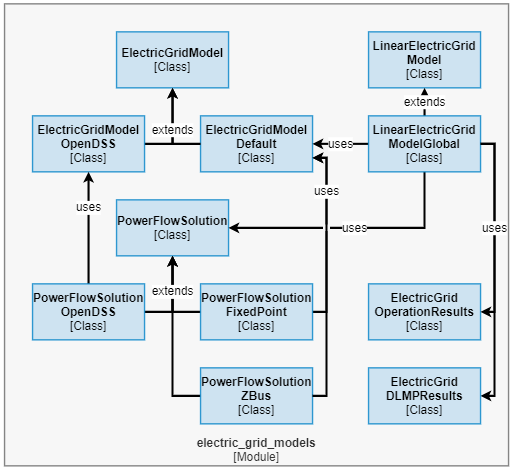
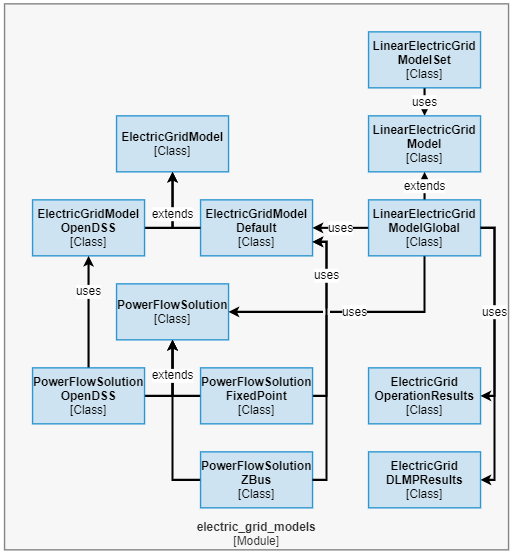
docs: Revise architecture docs

diff --git a/docs/architecture.md b/docs/architecture.md
@@ -55,7 +55,7 @@ Internally, the `api` module implements API functions which rely on the `problem
 
 The [component view of MESMO](fig:architecture_overview_detailed) provides a complete overview of all components, i.e. modules and data stores, of MESMO. The interaction between stakeholders and the software system follows the structure that has been outlined in [the context view](fig:architecture_overview) and is not repeated here. Compared to [the context view](fig:architecture_overview), the `models` modules are represented individually in [the component view](fig:architecture_overview_detailed) as `der_models` module, `electric_grid_models` module and `thermal_grid_models` module. Further, the `problems` module, `plots` module and `models` modules all use the `utils` module, which implements auxiliary functionality, such as base classes and logging functions. Researchers may use the `OptimizationProblem` class and results-path creation function from the `utils` module for creating custom workflows and optimization problem definitions.
 
-In addition to the above described functionality, `data_interface` module creates an internal database, i.e. `database.sqlite`, which serves as a temporary data store for scenario and model data. The internal database enables the utilization of SQL statements for efficiently transforming the input data into model data objects, which are then used by the `models` modules. The `config` module facilitates the declaration of configuration parameters, e.g. the level of logging outputs or the choice of optimization solvers. It is used by the `data_interface` module, `utils` module, `problems` module, `plots` module and `models` modules. The `config` module reads configuration parameter definitions from the data stores `config.yml` and `config_default.yml` in YAML format (The YAML Project 2020).
+In addition to the above described functionality, `data_interface` module creates an internal database, i.e. `database.sqlite`, which serves as a temporary data store for scenario and model data. The internal database enables the utilization of SQL statements for efficiently transforming the input data into model data objects, which are then used by the `models` modules. The `config` module facilitates the declaration of configuration parameters, e.g. the level of logging outputs or the choice of optimization solvers. It is used by the `data_interface` module, `utils` module, `problems` module, `plots` module and `models` modules. The `config` module reads configuration parameter definitions from the data stores `config.yml` and `config_default.yml` in [YAML format](https://yaml.org/).
 
 MESMO is intended as a software system that is deployed to individual workstations akin to a traditional desktop application, where all data and dependencies are kept local. Nevertheless, the software architecture is kept flexible enough to support alternative deployment structures in future, e.g. provisioning of a remote database system for the internal data store or operating MESMO as a server-side system that serves a web-based dashboard.
 
@@ -93,16 +93,16 @@ The `utils` module implements the following functionality:
 - Results object base class in `ResultsBase`.
 - Optimization problem class in `OptimizationProblem`.
 - Parallelization utility function in `starmap()`.
-- Memoization, i.e. caching, function decorator in `memoize()`.
 - Indexing utility functions in `get_index()`, `get_element_phases_array()` and `get_element_phases_string()`.
 - Utility functions to capture and log elapsed time in `log_time()`.
 - Helper functions to create and return a current time stamp in `get_timestamp` and a path for a new results folder in `get_results_path()`.
+- A utility function for writing `plotly` figures to files in `write_figure_plotly()`.
+- Other utility functions, which have yet to be included here (see [API reference](api_reference.md) for more).
 
-- A write utility function for `plotly` figures in `write_figure_plotly()`.
 
-The `utils` module essentially provides support functionality for the other modules of MESMO. To begin, the `ObjectBase`, `ResultsBase` and `OptimizationProblem` define base classes for MESMO, such that common functionality is not multiply defined in the model modules.
+The `utils` module essentially provides support functionality for the other modules of MESMO. To begin, the `ObjectBase`, `ResultsBase` and `OptimizationProblem` define base classes for MESMO, such that common functionality is not multiply defined in the model modules. Note that the purpose and functionality of the {class}`mesmo.utils.OptimizationProblem` object is extensively documented in the [API reference](api_reference.md).
 
-The `starmap()` and `memoize()` functions enable performance improvements to address the solution time ASR. Parallelization is enabled through the `starmap()` function, which can be utilized to process independent function executions in parallel, e.g. the initialization of multiple DER models. Therefore, `starmap()` replaces for-loop instances. Caching functionality is enabled with the `memoize()` decorator, which can be applied to arbitrary functions for speedup, i.e. the results of function calls are stored for subsequent calls. The `memoize()` is added to function definitions to enable the caching of the respective functions. Note that both `starmap()` and `memoize()` can be disabled though configuration parameters, i.e. the performance behavior of MESMO can be influenced without requiring source code changes.
+The `starmap()` function enables the parallelization of function calls, such that independent function can be executed in parallel, e.g. the initialization of multiple models. Therefore, `starmap()` replaces for-loop instances, which is modeled on [`itertools.starmap()`](https://docs.python.org/library/itertools.html#itertools.starmap) from the Python standard library. Note that parallel processing via `starmap()` must be explicitly enabled through the [multiprocessing configuration parameters](configuration_reference.md#multiprocessing-configuration). The `starmap()` function enables performance improvements to address the solution time software quality attribute.
 
 The `get_index()`, `get_element_phases_array()` and `get_element_phases_string()` functions define low-level functionality to support convenient indexing into vectors and matrices of the mathematical model formulations. This is heavily utilized in the model modules.
 
@@ -121,7 +121,7 @@ The `data_interface` module implements the following functionality:
 - Function to create or clear the internal database and reload all data from the input files in CSV format in `recreate_database()`.
 - Data container objects for scenario data in `ScenarioData`, price data in `PriceData`, DER data in `DERData`, electric grid data in `ElectricGridData` and thermal grid data in `ThermalGridData`.
 
-The primary purpose of `data_interface` module is to address the software quality attributes regarding interoperability and modifiability. To this end, the data container objects of this module serve as an abstraction layer between external and internal data structures. More specifically, internal model objects, e.g. `ElectricGridModel`, rely exclusively on data container objects, e.g. `ElectricGridData`, for their model parameter input but do not read any external data definitions directly. This is leans on the “clean architecture” principle from (Martin 2018, 195, Chapter 22), which suggests that software layers that implement core functionality, i.e. models modules, should not need to know anything about the external interfaces of the software system, i.e. the input data definitions. This approach supports interoperability and modifability because changes to the external data formats of MESMO do not induce any changes in the model implementations. Note however, that changes on the model implementations may indeed require changes to the data interface, as the required model parameters may change.
+The primary purpose of `data_interface` module is to address the software quality attributes regarding interoperability and modifiability. To this end, the data container objects of this module serve as an abstraction layer between external and internal data structures. More specifically, internal model objects, e.g. `ElectricGridModel`, rely exclusively on data container objects, e.g. `ElectricGridData`, for their model parameter input but do not read any external data definitions directly. This is leans on the “clean architecture” principle from (Martin 2018, p. 195, Chapter 22), which suggests that software layers that implement core functionality, i.e. models modules, should not need to know anything about the external interfaces of the software system, i.e. the input data definitions. This approach supports interoperability and modifability because changes to the external data formats of MESMO do not induce any changes in the model implementations. Note however, that changes on the model implementations may indeed require changes to the data interface, as the required model parameters may change.
 
 The `connect_database()` function establishes the connection to the internal database and returns a connection handle. MESMO utilizes an SQLITE database as internal database, which is stored locally as `database.sqlite`. On the other hand, if the local database does not yet exist, it is created through a call to `recreate_database()`. This function creates an empty database and loads the CSV input files into the database. If the local database exists, a call to `recreate_database()` clears the existing database before parsing the CSV input files. The MESMO CSV input format is aligned with the internal database schema, such that each CSV file corresponds to a table in the SQL database. Therefore, the CSV file name is interpreted as table name and the values in the first row are interpreted as column names. Note that MESMO can in principle be adapted to use other SQL database software than SQLITE, through modification of `connect_database()` and `recreate_database()`.
 
@@ -138,14 +138,14 @@ The `electric_grid_models` module implements the following functionality:
 
 - Fundamental electric grid models in `ElectricGridModel`, `ElectricGridModelDefault` and `ElectricGridModelOpenDSS`.
 - Power flow solution algorithms in `PowerFlowSolution`, `PowerFlowSolutionFixedPoint`, `PowerFlowSolutionZBus` and `PowerFlowSolutionOpenDSS`.
-- Linear electric grid models in `LinearElectricGridModel`, `LinearElectricGridModelGlobal` and `LinearElectricGridModelLocal`.
+- Linear electric grid models in `LinearElectricGridModel`, `LinearElectricGridModelSet`, `LinearElectricGridModelGlobal` and `LinearElectricGridModelLocal`.
 - Electric grid operation problem results in `ElectricGridOperationResults` and `ElectricGridDLMPResults`.
 
-The `ElectricGridModel` class implements a base class for electric models, which consists of index sets for nodes, branches and DERs and reference vectors for the nodal voltage, branch power flow and DER power injection / load. This base class is extended in `ElectricGridModelDefault` with the mathematical definitions of the fundamental electric grid model. To this end, the model implements nodal and branch admittance matrices along with branch and DER mapping matrices. The `ElectricGridModelOpenDSS` similarly extends the `ElectricGridModel` class, where the focus lies on implementing a OpenDSS model based for the provided grid definition data. This essentially acts as an interface to OpenDSS (Dugan and McDermott 2011), which is provided in MESMO to allow for benchmarking of obtained power flow solutions. The implementation relies on `OpenDSSDirect.py` (Dheepak Krishnamurthy, Paulo Meira, and Max Zangs \[2017\] 2021), which provides a Python interface and command-line executables of OpenDSS.
+The `ElectricGridModel` class implements a base class for electric models, which consists of index sets for nodes, branches and DERs and reference vectors for the nodal voltage, branch power flow and DER power injection / load. This base class is extended in `ElectricGridModelDefault` with the mathematical definitions of the fundamental electric grid model. To this end, the model implements nodal and branch admittance matrices along with branch and DER mapping matrices. The `ElectricGridModelOpenDSS` similarly extends the `ElectricGridModel` class, where the focus lies on implementing a OpenDSS model based for the provided grid definition data. This essentially acts as an interface to OpenDSS, which is provided in MESMO to allow for benchmarking of obtained power flow solutions. The implementation relies on [`OpenDSSDirect.py`](https://github.com/dss-extensions/OpenDSSDirect.py), which provides a Python interface and command-line executables of OpenDSS.
 
 The `PowerFlowSolution` class implements a abstract base class for power flow solutions, thereby declaring the expected output variables of the power flow solution. This base class is extended in `PowerFlowSolutionFixedPoint` for the fixed-point solution algorithm and in `PowerFlowSolutionZBus` for the Z-bus solution algorithm, which both use and `ElectricGridModelDefault` object as an input for the power flow solution. The `PowerFlowSolutionOpenDSS` class implements a power flow solution through OpenDSS, where it relies on an OpenDSS model being defined in `ElectricGridModelOpenDSS`.
 
-The `LinearElectricGridModel` class implements a base class for linear electric model, where the expected sensitivity matrices of the linear grid model are declared. This class also implements the methods `define_optimization_variables`, `define_optimization_constraints` and `define_optimization_objective` to define variables, constraints and objective for an optimal operation problem based on the linear grid model. Further, the base class implements `get_optimization_results` and `get_optimization_dlmps` to obtain the DLMPs and other results after the optimization problem was solved. The linear model base class is extended in `LinearElectricGridModelGlobal` and `LinearElectricGridModelLocal` with the mathematical definitions for the sensitivity matrices based on the global and local approximation methods.
+The `LinearElectricGridModel` class implements a base class for linear electric model, where the expected sensitivity matrices of the linear grid model are declared. Based on a set of `LinearElectricGridModel` objects, i.e. one model per time step, the `LinearElectricGridModelSet` class implements the optimization-related methods `define_optimization_variables`, `define_optimization_constraints` and `define_optimization_objective` to define variables, constraints and objective for an optimal operation problem based on the linear grid model. Further, this class implements `get_optimization_results` and `get_optimization_dlmps` to obtain the DLMPs and other results after the optimization problem was solved. The `LinearElectricGridModel` base class is extended in `LinearElectricGridModelGlobal` and `LinearElectricGridModelLocal` with the mathematical definitions for the sensitivity matrices based on the global and local approximation methods.
 
 The results container classes `ElectricGridOperationResults` and `ElectricGridDLMPResults` encapsulate the output from `get_optimization_results` and `get_optimization_dlmps`. To this end, the container classes declare a standardized interface for results data. This addresses the software quality attribute for modifiability, since it ensures a decoupling of the mathematical model implementation from the post-processing functionality in the `plots` and `dashboard` modules.
 
@@ -160,12 +160,12 @@ The `thermal_grid_models` module implements the following functionality:
 
 - Fundamental thermal grid model in `ThermalGridModel`.
 - Thermal power flow solution algorithm in `ThermalPowerFlowSolution`.
-- Linear thermal grid models in `LinearThermalGridModel`, `LinearThermalGridModelGlobal` and `LinearThermalGridModelLocal`.
+- Linear thermal grid models in `LinearThermalGridModel` and `LinearThermalGridModelSet`.
 - Thermal grid operation problem results in `ThermalGridOperationResults` and `ThermalGridDLMPResults`.
 
 The `ThermalGridModel` class implements the fundamental thermal grid model consisting of index sets for nodes, branches and DERs in the thermal grid as well as branch parameter and mapping matrices. Based on this, the `ThermalPowerFlowSolution` implements the thermal power flow solution algorithm for the thermal grid. Note that the distinction into base classes and detail classes is omitted due to lack of differentiation the thermal grid models but a structure similar to the `electric_grid_models` module may be introduced at later point.
 
-The `LinearThermalGridModel` class implements base for linear thermal grid models, where the expected sensitivity matrices of the linear grid model are declared along with the methods `define_optimization_variables`, `define_optimization_constraints` and `define_optimization_objective` to define variables, constraints and objective for an optimal operation problem based on the linear grid model. The linear model base class is extended in `LinearThermalGridModelGlobal` and `LinearThermalGridModelLocal` with the mathematical definitions for the sensitivity matrices based on the global and local approximation methods.
+The `LinearThermalGridModel` class implements base for linear thermal grid models, where the expected sensitivity matrices of the linear grid model are declared and defined. Based on a set of `LinearThermalGridModel` objects, i.e. one model per time step, the `LinearThermalGridModelSet` class defines the optimization-related methods `define_optimization_variables`, `define_optimization_constraints` and `define_optimization_objective` to define variables, constraints and objective for an optimal operation problem based on the linear grid model. Further, this class implements `get_optimization_results` and `get_optimization_dlmps` to obtain the DLMPs and other results after the optimization problem was solved.
 
 The results container classes `ThermalGridOperationResults` and `ThermalGridDLMPResults` encapsulate the output from `get_optimization_results` and `get_optimization_dlmps`. To this end, the container classes declare a standardized interface for results data. Similar to the results classes in the `electric_grid_models` module, this addresses the software quality attribute for modifiability.
 
@@ -217,7 +217,7 @@ The results container class `Results` declares the expected results variables fo
 
 **Workflow diagram of the nominal operation problems.**
 
-The nominal operation problem is a simulation problem of the electric grid, thermal grid and DERs. The workflow diagram for an exemplary nominal operation problem is depicted [above](fig:workflow_nominal_operation). In this example, the thermal grid is not considered for the sake of brevity. For the purpose of this documentation, the researcher is assumed to control the workflow within a read-eval-print loop (REPL), i.e. successively executing statements in the command line.
+The nominal operation problem is a simulation problem of the electric grid, thermal grid and DERs. The [workflow diagram](fig:workflow_nominal_operation) for an exemplary nominal operation problem is depicted above. In this example, the thermal grid is not considered for the sake of brevity. For the purpose of this documentation, the researcher is assumed to control the workflow within a read-eval-print loop (REPL), i.e. successively executing statements in the command line.
 
 The workflow begins with the researcher creating an object of the `NominalOperationProblem` class. In the initialization routine of this object, the child objects `ElectricGridModel` and `DERModelSet` are created. In turn, the initialization routine of `ElectricGridModel` loads an `ElectricGridData` object, whereas `DERModelSet` loads an `DERData` object. The data objects respectively establish a connection to `database.sqlite` through `connect_database()` and then obtain the relevant data items. In `ElectricGridModel`, the index sets and model matrices are then defined based on the obtained data. In `DERModelSet` all DER models for the current scenario are created through `make_der_model()`, thereby loading multiple `DERModel` objects. Once the initialization routine is completed, control is returned to the researcher.
 
@@ -234,15 +234,15 @@ In the last step, the researcher may save the results to the file system through
 
 **Workflow diagram of the optimal operation problems.**
 
-The optimal operation problem is a numerical optimization problem of the district-scale electric grid, thermal grid and DERs. The workflow diagram for an exemplary nominal operation problem is depicted [above](fig:workflow_optimal_operation). Similar to the nominal operation problem workflow above, the thermal grid is not considered for the sake of brevity and the researcher is assumed to control the workflow within a read-eval-print loop (REPL), i.e. successively executing statements in the command line.
+The optimal operation problem is a numerical optimization problem of the district-scale electric grid, thermal grid and DERs. The [workflow diagram](fig:workflow_optimal_operation) for an exemplary nominal operation problem is depicted above. Similar to the nominal operation problem workflow above, the thermal grid is not considered for the sake of brevity and the researcher is assumed to control the workflow within a read-eval-print loop (REPL), i.e. successively executing statements in the command line.
 
-The researcher begins the workflow by creating an object of the `OptimalOperationProblem` class. In its initialization routine, the `OptimalOperationProblem` creates child objects of the `ElectricGridModel`, `GlobalLinearElectricGridModel` and `DERModelSet` classes. To begin, the `ElectricGridModel` loads an `ElectricGridData` object, which establishes a connection to `database.sqlite` through `connect_database()` and obtains the relevant data items. In `ElectricGridModel`, the index sets and model matrices are then defined based on the obtained data. Based on this, the `GlobalLinearElectricGridModel` is instantiated based on the index sets and model matrices of the `ElectricGridModel` object. Furthermore, a `PowerFlowSolution` object is loaded for the nominal loading conditions of the electric grid, which is required as a reference point for the global approximation method. Note that `GlobalLinearElectricGridModel` is utilized here instead of `LinearElectricGridModel`, which is the abstract parent class that only implements the model interface / structure but not the actual mathematical model formulation. Lastly, in `DERModelSet` all DER models for the current scenario are created through `make_der_model()`, thereby loading multiple `DERModel` objects.
+The researcher begins the workflow by creating an object of the `OptimalOperationProblem` class. In its initialization routine, the `OptimalOperationProblem` creates child objects of the `ElectricGridModel`, `LinearElectricGridModelSet` and `DERModelSet` classes. To begin, the `ElectricGridModel` loads an `ElectricGridData` object, which establishes a connection to `database.sqlite` through `connect_database()` and obtains the relevant data items. In `ElectricGridModel`, the index sets and model matrices are then defined based on the obtained data. Based on this, the `LinearElectricGridModelSet` is instantiated, which internally loads a set of `LinearElectricGridModel` objects based on the index sets and model matrices of the `ElectricGridModel` object. Furthermore, a `PowerFlowSolution` object is loaded for the nominal loading conditions of the electric grid, which is required as a reference point for the global approximation method. Note that `LinearElectricGridModelSet` creates one `LinearElectricGridModel` for each time step of the scenario, which is intended to enable better solution quality by using individual approximation points, i.e. `PowerFlowSolution` objects, for each time step. This currently not utilized in `OptimalOperationProblem`, but the interface has been designed to be future-proof, e.g. for integration of a trust-region algorithm to iteratively update the approximation points. Lastly, in `DERModelSet` all DER models for the current scenario are created through `make_der_model()`, thereby loading multiple `DERModel` objects.
 
-Furthermore, the initialization routine of the `OptimalOperationProblem` creates an object of the `OptimizationProblem` class. This object serves as a container for the mathematical definitions of the numerical optimization problem, i.e. its variables, constraints and objective definition. To this end, the `OptimizationProblem` class provides the necessary abstractions to enable a solver-agnostic problem definition. Continuing, the initialization routine of the `OptimalOperationProblem` defines the variables, constraints and objectives of the optimal operation problems. In this regard, the architecture of MESMO is structured such that variables, constraints and objective are implemented through methods within the respective model classes. This addresses the quality attributes for modifiability and modularity of the software. It ensures that 1) model interface changes are kept coherent with the optimization problem definitions and 2) variables, constraints and objective definitions can be obtained for each model individually. Therefore, the `OptimalOperationProblem` iterates through the methods `define_optimization_variables()`, `define_optimization_constraints()` and `define_optimization_objective()` of `LinearElectricGridModel` and `DERModelSet`, where the `OptimizationProblem` object is passed to each method in order to attach the variables, constraints and objective definitions. Once the initialization routine is completed, control is returned to the researcher.
+Furthermore, the initialization routine of the `OptimalOperationProblem` creates an object of the `OptimizationProblem` class. This object serves as a container for the mathematical definitions of the numerical optimization problem, i.e. its variables, constraints and objective definition. To this end, the `OptimizationProblem` class provides the necessary abstractions to enable a solver-agnostic problem definition (see {class}`mesmo.utils.OptimizationProblem`). Continuing, the initialization routine of the `OptimalOperationProblem` defines the variables, constraints and objectives of the optimal operation problems. In this regard, the architecture of MESMO is structured such that variables, constraints and objective are implemented through methods within the `LinearElectricGridModelSet` and `DERModelSet` classes. This addresses the quality attributes for modifiability and modularity of the software. It ensures that 1) model interface changes are kept coherent with the optimization problem definitions and 2) variables, constraints and objective definitions can be obtained for each model individually. Therefore, the `OptimalOperationProblem` iterates through the methods `define_optimization_variables()`, `define_optimization_constraints()` and `define_optimization_objective()` of `LinearElectricGridModelSet` and `DERModelSet`, where the `OptimizationProblem` object is passed to each method in order to attach the variables, constraints and objective definitions. Once the initialization routine is completed, control is returned to the researcher.
 
 The researcher then calls the `solve()` method of the `OptimalOperationProblem` object. This method calls the `solve()` method of the `OptimizationProblem` object, which in turn passes the optimization problem definition to the solver interface. It invokes the external optimization solver to obtain the solution.
 
-Next, the researcher calls the `get_results()` method of the `OptimalOperationProblem` object. This method obtains the results for all model variables by invoking the `get_optimization_results()` methods of the `LinearElectricGridModel` and `DERModelSet`. The results are then transformed into the results variable structures which are expected in the `Results` object, which is then created by passing the relevant variables into the container. Eventually, the `get_results()` method returns the `Results` object to the researcher.
+Next, the researcher calls the `get_results()` method of the `OptimalOperationProblem` object. This method obtains the results for all model variables by invoking the `get_optimization_results()` methods of the `LinearElectricGridModelSet` and `DERModelSet`. The results are then transformed into the results variable structures which are expected in the `Results` object, which is then created by passing the relevant variables into the container. Eventually, the `get_results()` method returns the `Results` object to the researcher.
 
 ## Allocation structures
 
@@ -253,19 +253,7 @@ Next, the researcher calls the `get_results()` method of the `OptimalOperationPr
 
 **Container view of MESMO, highlighting the external software dependencies.**
 
-In principle, MESMO’s software architecture presented in [](#module-structures) and [](#workflow-structures) can be implemented in any software environment or programming language. Nevertheless, the choice of dependencies is influenced by some the functional requirements and quality attributes from [](#functional-requirements) and [](#quality-attributes). To this end, the [container view](fig:architecture_container_view) highlights the main dependencies of the current implementation of MESMO.
-
-The primary programming language of MESMO is Python, such that all modules in the [context view](fig:architecture_overview_detailed) are implemented in this language. The following considerations have contributed to this choice of programming language:
-
-- Python, along with MATLAB and C++ is commonly used among researchers in energy engineering. Therefore, the choice for this language enables researchers to readily integrate MESMO with their existing modeling workflows. Furthermore, existing modeling efforts could be utilized in MESMO, such as the building modeling toolbox CoBMo (Troitzsch, Miori, and Vautrin 2019).
-
-- In Python, there is a rich environment of libraries for convex optimization and plotting and dashboarding applications. The former ensures that MESMO does not need to implement low-level solver interfaces. In contrast, the later ensures a future-facing development with the need for high-level user interfaces in mind.
-
-- Since Python and most of its libraries are available free and open source, this ensures accessibility of MESMO, which is also intended for open-source distribution for the benefit of stakeholders in the research domain.
-
-The above points mainly address interoperability ASRs. However, a drawback of choice for Python over C++ or Julia is the performance disadvantages that are associated with language. This trade-off is tolerated in the context of MESMO because the interoperability ASRs are slightly more important than the performance ASRs.
-
-The further dependencies of MESMO are all Python packages, which ensures straightforward dependency management through the Python setup and package management facilities. On the modeling side, MESMO utilizes the `cobmo` and `OpenDSSDirect.py`, where `cobmo` implements the underlying mathematical models for `FlexibleBuildingModel` and `OpenDSSDirect.py` serves as an interface to OpenDSS (Dugan and McDermott 2011) in `ElectricGridModelOpenDSS` as well as `PowerFlowSolutionOpenDSS`. The `sqlite3` provides low-level interfaces for interacting with the internal SQLITE database, i.e. `database.sqlite`. The packages `plotly` and `dash` provide plotting and dashboarding functionalities, where `dash` will serve the future implementation of a web-based GUI out of MESMO. Lastly, `cvxpy` implements a convex optimization problem modeling framework and interfaces to various open-source and commercial solvers (Diamond and Boyd 2016).
+The [container view](fig:architecture_container_view) highlights the main dependencies of the current implementation of MESMO. The primary programming language of MESMO is Python, such that all modules in the [context view](fig:architecture_overview_detailed) are implemented in this language. The further dependencies of MESMO are all Python packages, which ensures straightforward dependency management through the Python setup and package management facilities. On the modeling side, MESMO utilizes the `cobmo` and `OpenDSSDirect.py`, where `cobmo` implements the underlying mathematical models for `FlexibleBuildingModel` and `OpenDSSDirect.py` serves as an interface to OpenDSS in `ElectricGridModelOpenDSS` as well as `PowerFlowSolutionOpenDSS`. The `sqlite3` provides low-level interfaces for interacting with the internal SQLITE database, i.e. `database.sqlite`. The packages `plotly` and `dash` provide plotting and dashboarding functionalities, where `dash` will serve the future implementation of a web-based GUI out of MESMO. The [`cvxpy`](https://www.cvxpy.org/) package implements a convex optimization problem modeling framework and interfaces to various open-source and commercial solvers. In addition to using `cvxpy` as a generalized solver interface, MESMO also utilizes `gurobipy` to directly interface Gurobi in order to achieve performance improvements for large scenarios. Further direct solver interfaces are intended to be added on an as-need basis.
 
 ### Repository structure
 
@@ -286,7 +274,7 @@ The `examples` directory contains example run scripts, which demonstrate typical
 
 Results data items of an example run scripts are by default stored into the `results` directory. This directory is provided for convenience to keep all MESMO-related data within a single location. The Git repository is configured to ignore any files in this directory, such that results are local-only and are not committed to the main repository.
 
-The `test` directory contains unit tests for the classes and functions of all modules. Although MESMO does not strictly follow test-driven development (Beck 2003), unit tests are an important tool for collaborative development because they help reveal if code changes impact other functionalities in unexpected. To this end, the `test` directory contains one unit test script for each module of MESMO. The unit tests are automatically executed through GitHub Actions whenever changes are pushed to the repository and alerts to developers are triggered on test failures.
+The `test` directory contains unit tests for the classes and functions of all modules. Although MESMO does not strictly follow test-driven development, unit tests are an important tool for collaborative development because they help reveal if code changes impact other functionalities in unexpected. To this end, the `test` directory contains one unit test script for each module of MESMO. The unit tests are automatically executed through GitHub Actions whenever changes are pushed to the repository and alerts to developers are triggered on test failures.
 
 The aforementioned automations with GitHub Actions for documentation and tests are configured in the `.github` directory. In addition, the `workflows` sub-directory contains one YAML file in GitHub Actions format for each automation workflow.
 
@@ -354,7 +342,7 @@ The functional requirements for MESMO are directly derived from the use case mod
     - DER modeling:
         - Obtain time series models for fixed DERs.
         - Obtain state-space models for flexible DERs.
-        - Enable the modeling of fixed loads, fixed generators, flexible loads, flexible generators, ESSs, EV chargers, DHSs and DCSs. Enable flexible building modeling through the CoBMo toolbox (Troitzsch, Miori, and Vautrin 2019).
+        - Enable the modeling of fixed loads, fixed generators, flexible loads, flexible generators, ESSs, EV chargers, DHSs and DCSs. Enable flexible building modeling through the [CoBMo toolbox](https://doi.org/10.5281/ZENODO.3523539).
     - MES operation:
         - Obtain and solve nominal operation problems, i.e. steady-state simulations, of electric and thermal grids with DERs, i.e. MESs.
         - Define and solve numerical optimization problem for combined optimal operation for electric and thermal grids with DERs, i.e. MESs.
@@ -363,7 +351,7 @@ The functional requirements for MESMO are directly derived from the use case mod
 5. To address U8 internally, MESMO must define a standardized results data object. The results object serves as an interface between high-level problem type definitions and the low-level model definitions. To this end, the results object ensures that post-processing workflows can be developed independently of the specific models or interfaced problems. In terms of MESMO development, this also facilitates standardization for inputs to the GUI.
 6. Lastly, U6 requires MESMO to interface numerical solvers for convex optimization. Therefore, MESMO must define variables, constraints and objective for the optimization problems and retrieve both primal and dual variable results.
 
-The functional requirements state what the software system must do. During the development of the software architecture, these functionalities or use cases are assigned to specific modules of the software. However, as stated in (Bass, Clements, and Kazman 2013, 65, Section 4.2):
+The functional requirements state what the software system must do. During the development of the software architecture, these functionalities or use cases are assigned to specific modules of the software. However, as stated in (Bass, Clements, and Kazman 2013, p. 65, Section 4.2):
 
 > Functionality does not determine architecture.
 
@@ -371,9 +359,9 @@ This is only partly true for MESMO because the structure of code elements is ind
 
 ### Quality attributes
 
-The gathering of quality attributes focuses on narrowing down the architecturally significant requirements (ASRs) that inform architectural decisions. For MESMO, the quality attributes were gathered by assessing the business goals of stakeholders during the project Platform for Interconnected Micro-Grid Operation (PRIMO), which is a collaboration between TUMCREATE, EDF Lab Singapore, Singapore Institute for Technology (SIT) and Nanyang Technological University (NTU). In this project, MESMO is intended as the underlying library for expressing optimal operation problems in the context of urban micro-grids. To this end, the discussion among corporate and research entities in the project served as a valuable source for the definition of ASRs.
+The gathering of quality attributes focuses on narrowing down the architecturally significant requirements that inform architectural decisions. For MESMO, the quality attributes were gathered by assessing the business goals of stakeholders during the project Platform for Interconnected Micro-Grid Operation (PRIMO), which is a collaboration between TUMCREATE, EDF Lab Singapore, Singapore Institute for Technology (SIT) and Nanyang Technological University (NTU). In this project, MESMO is intended as the underlying library for expressing optimal operation problems in the context of urban micro-grids. To this end, the discussion among corporate and research entities in the project served as a valuable source for the definition of software quality attributes.
 
-As a valuable structure for documenting quality attributes, (Bass, Clements, and Kazman 2013, 304, Section 16.4) proposes the utility tree, i.e. a list-based format. In this format, the first level defines the quality attribute type, the second level defines the attribute refinement and the third level describes the ASR. Each item is labeled with a pair of “high”, “medium” and “low”, where the first label indicates the ASRs importance and the second level indicates its effect on the architecture. Based on this format, the quality attributes for MESMO are outlined as follows:
+As a valuable structure for documenting quality attributes, (Bass, Clements, and Kazman 2013, p. 304, Section 16.4) proposes the utility tree, i.e. a list-based format. In this format, the first level defines the quality attribute type, the second level defines the attribute refinement and the third level describes the software quality attribute. Each item is labeled with a pair of “high”, “medium” and “low”, where the first label indicates the software quality attributes importance and the second level indicates its effect on the architecture. Based on this format, the quality attributes for MESMO are outlined as follows:
 
 - **Configurability**
     1. Custom mathematical models
@@ -422,21 +410,14 @@ As a valuable structure for documenting quality attributes, (Bass, Clements, and
         - Importance: medium
         - Impact on architecture: medium
     2. Input error handling
-        - Description: This ASR also considers the ability to detect failures that may not be obvious to the user, e.g. an incorrect power flow solution due to an error in the input data.
+        - Description: This software quality attribute also considers the ability to detect failures that may not be obvious to the user, e.g. an incorrect power flow solution due to an error in the input data.
         - Importance: medium
         - Impact on architecture: low
 
 Note that the quality attributes are ordered alphabetically and not by importance. Note also that only the most important quality attributes in the context of MESMO are included in this list.
 
-### References
+## References
 
 - Bass, Len, Paul Clements, and Rick Kazman. 2013. *Software Architecture in Practice*. 3rd ed. SEI Series in Software Engineering. Upper Saddle River, NJ: Addison-Wesley.
-- Beck, Kent. 2003. *Test-Driven Development: By Example*. The Addison-Wesley Signature Series. Boston: Addison-Wesley.
-- Dheepak Krishnamurthy, Paulo Meira, and Max Zangs. (2017) 2021. *OpenDSSDirect.py*. DSS Extensions. <https://github.com/dss-extensions/OpenDSSDirect.py>.
-- Diamond, Steven, and Stephen Boyd. 2016. “CVXPY: A Python-Embedded Modeling Language for Convex Optimization.” June 1, 2016. <http://arxiv.org/abs/1603.00943>.
-- Dugan, Roger C., and Thomas E. McDermott. 2011. “An Open Source Platform for Collaborating on Smart Grid Research.” In *2011 IEEE Power and Energy Society General Meeting*. San Diego, CA: IEEE. <https://doi.org/10.1109/PES.2011.6039829>.
 - Martin, Robert C. 2018. *Clean Architecture: A Craftsman’s Guide to Software Structure and Design*. Robert C. Martin Series. London, England: Prentice Hall.
-- Preston-Werner, Tom. 2013. “Semantic Versioning 2.0.0.” Semantic Versioning. 2013. <https://semver.org/>.
 - Reitz, Kenneth, and Tanya Schlusser. 2016. *The Hitchhiker’s Guide to Python: Best Practices for Development*. Sebastopol, California: O’Reilly Media, Inc. <https://docs.python-guide.org/>.
-- The YAML Project. 2020. “The Official YAML Web Site.” 2020. <https://yaml.org/>.
-- Troitzsch, Sebastian, Tommaso Miori, and Anthony Vautrin. 2019. *CoBMo - Control-Oriented Building Model* (version 0.3.0). Zenodo. <https://doi.org/10.5281/ZENODO.3523539>.
